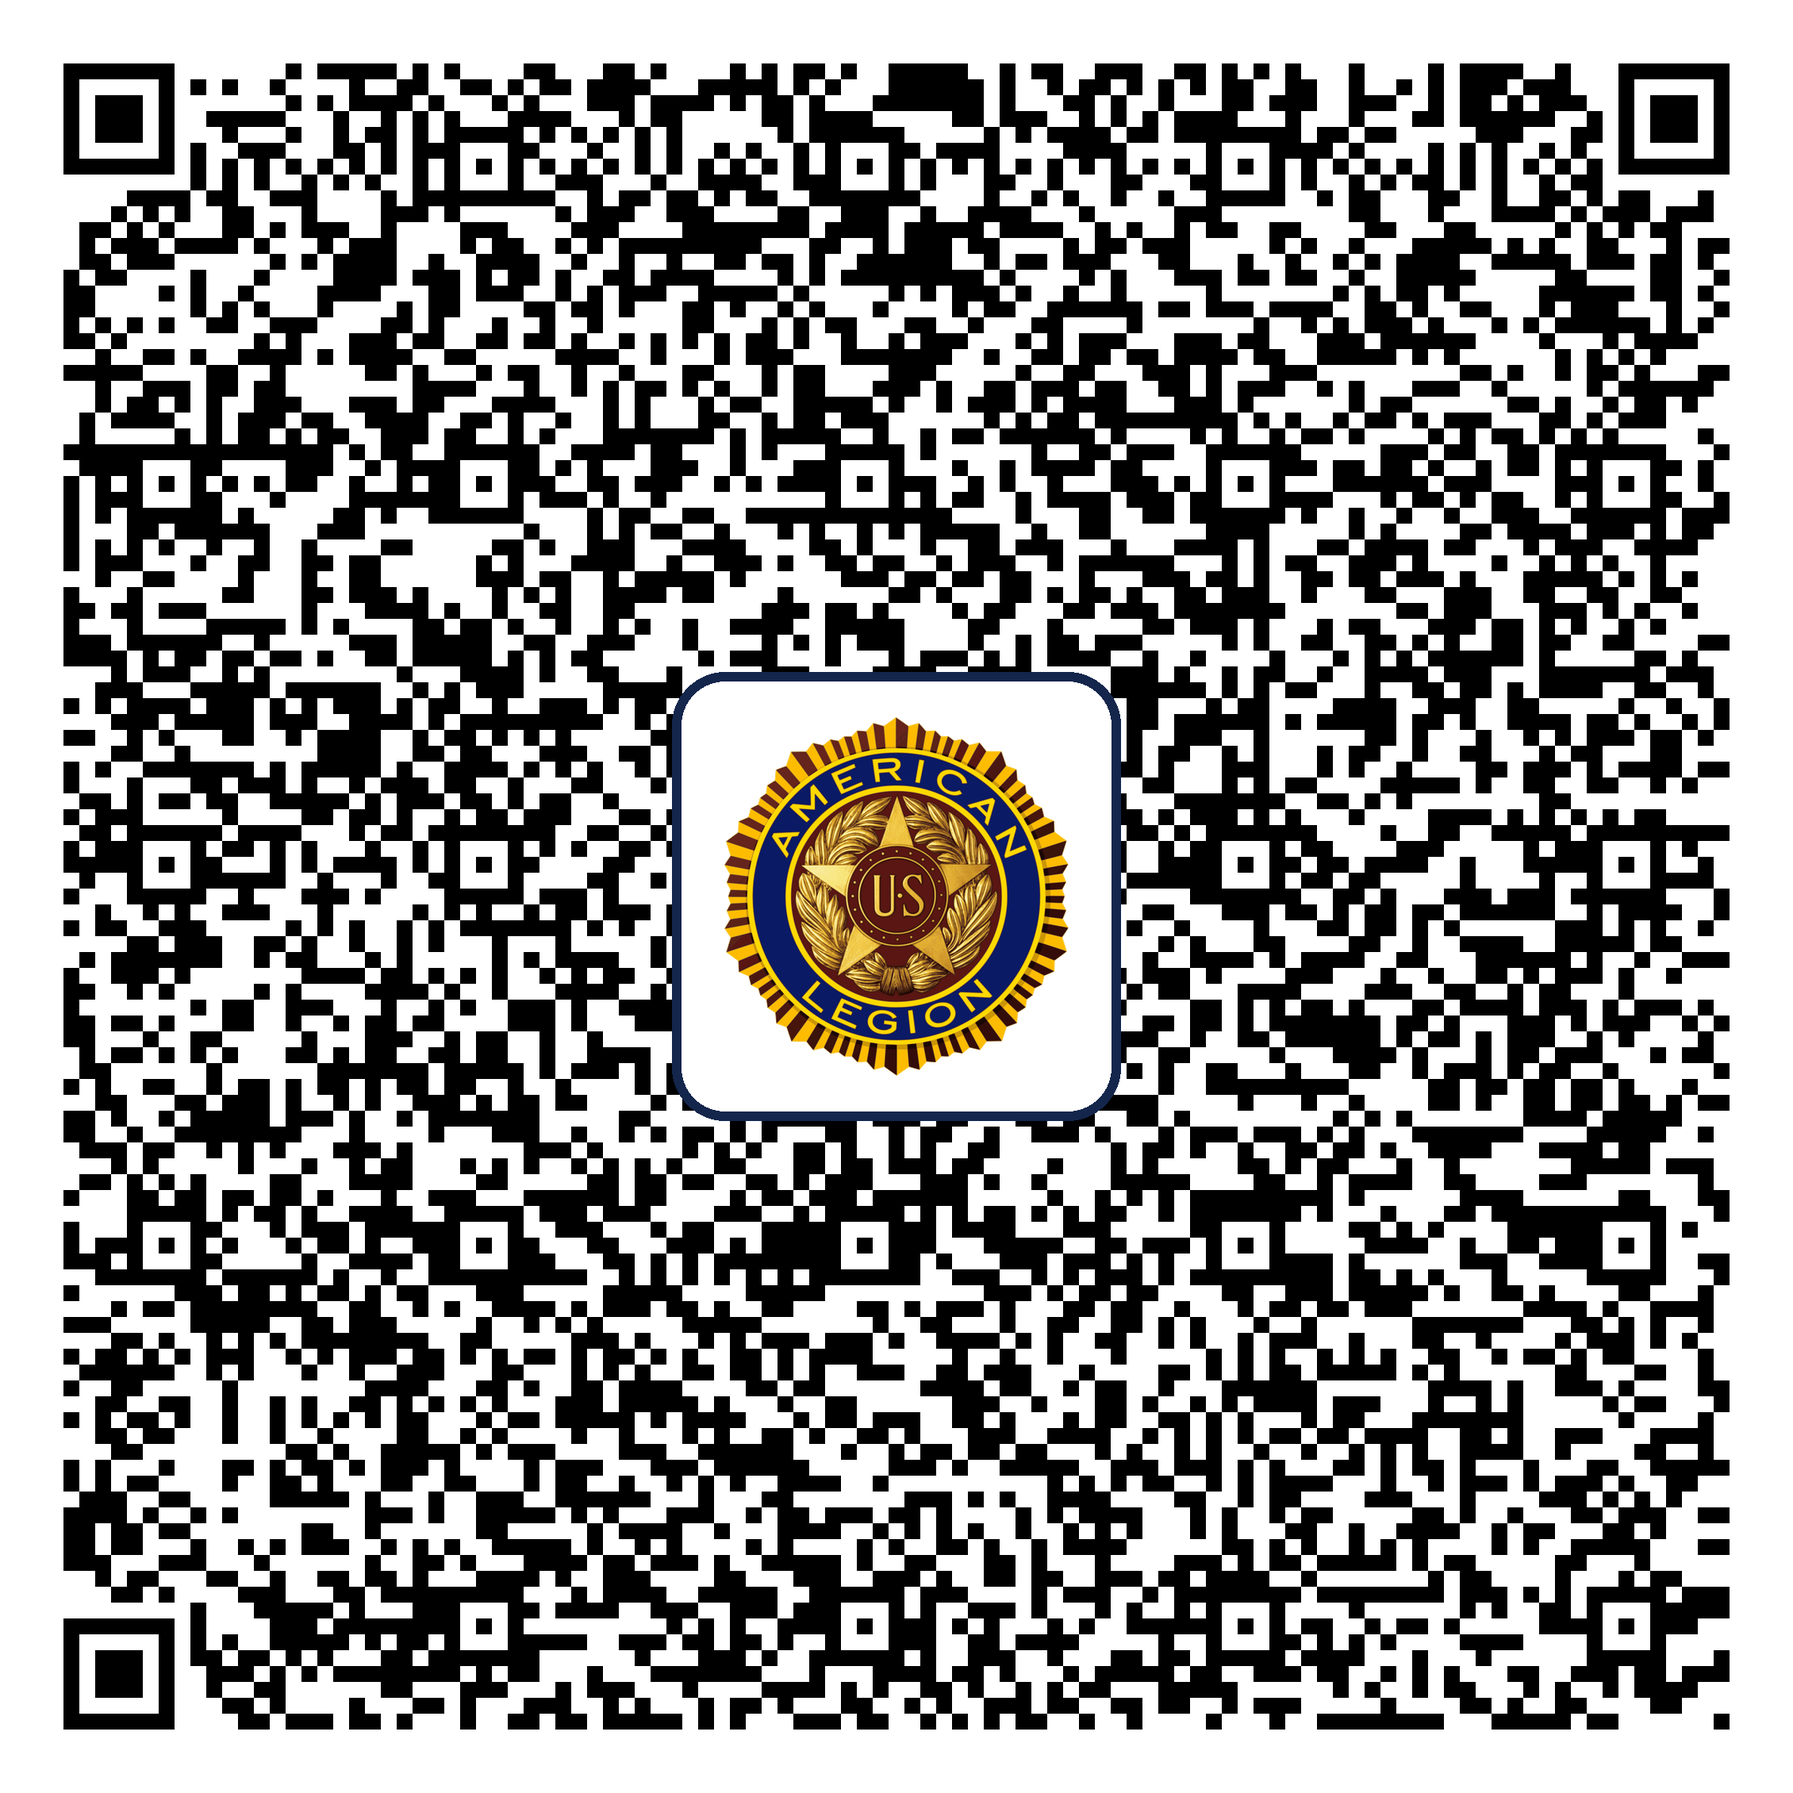
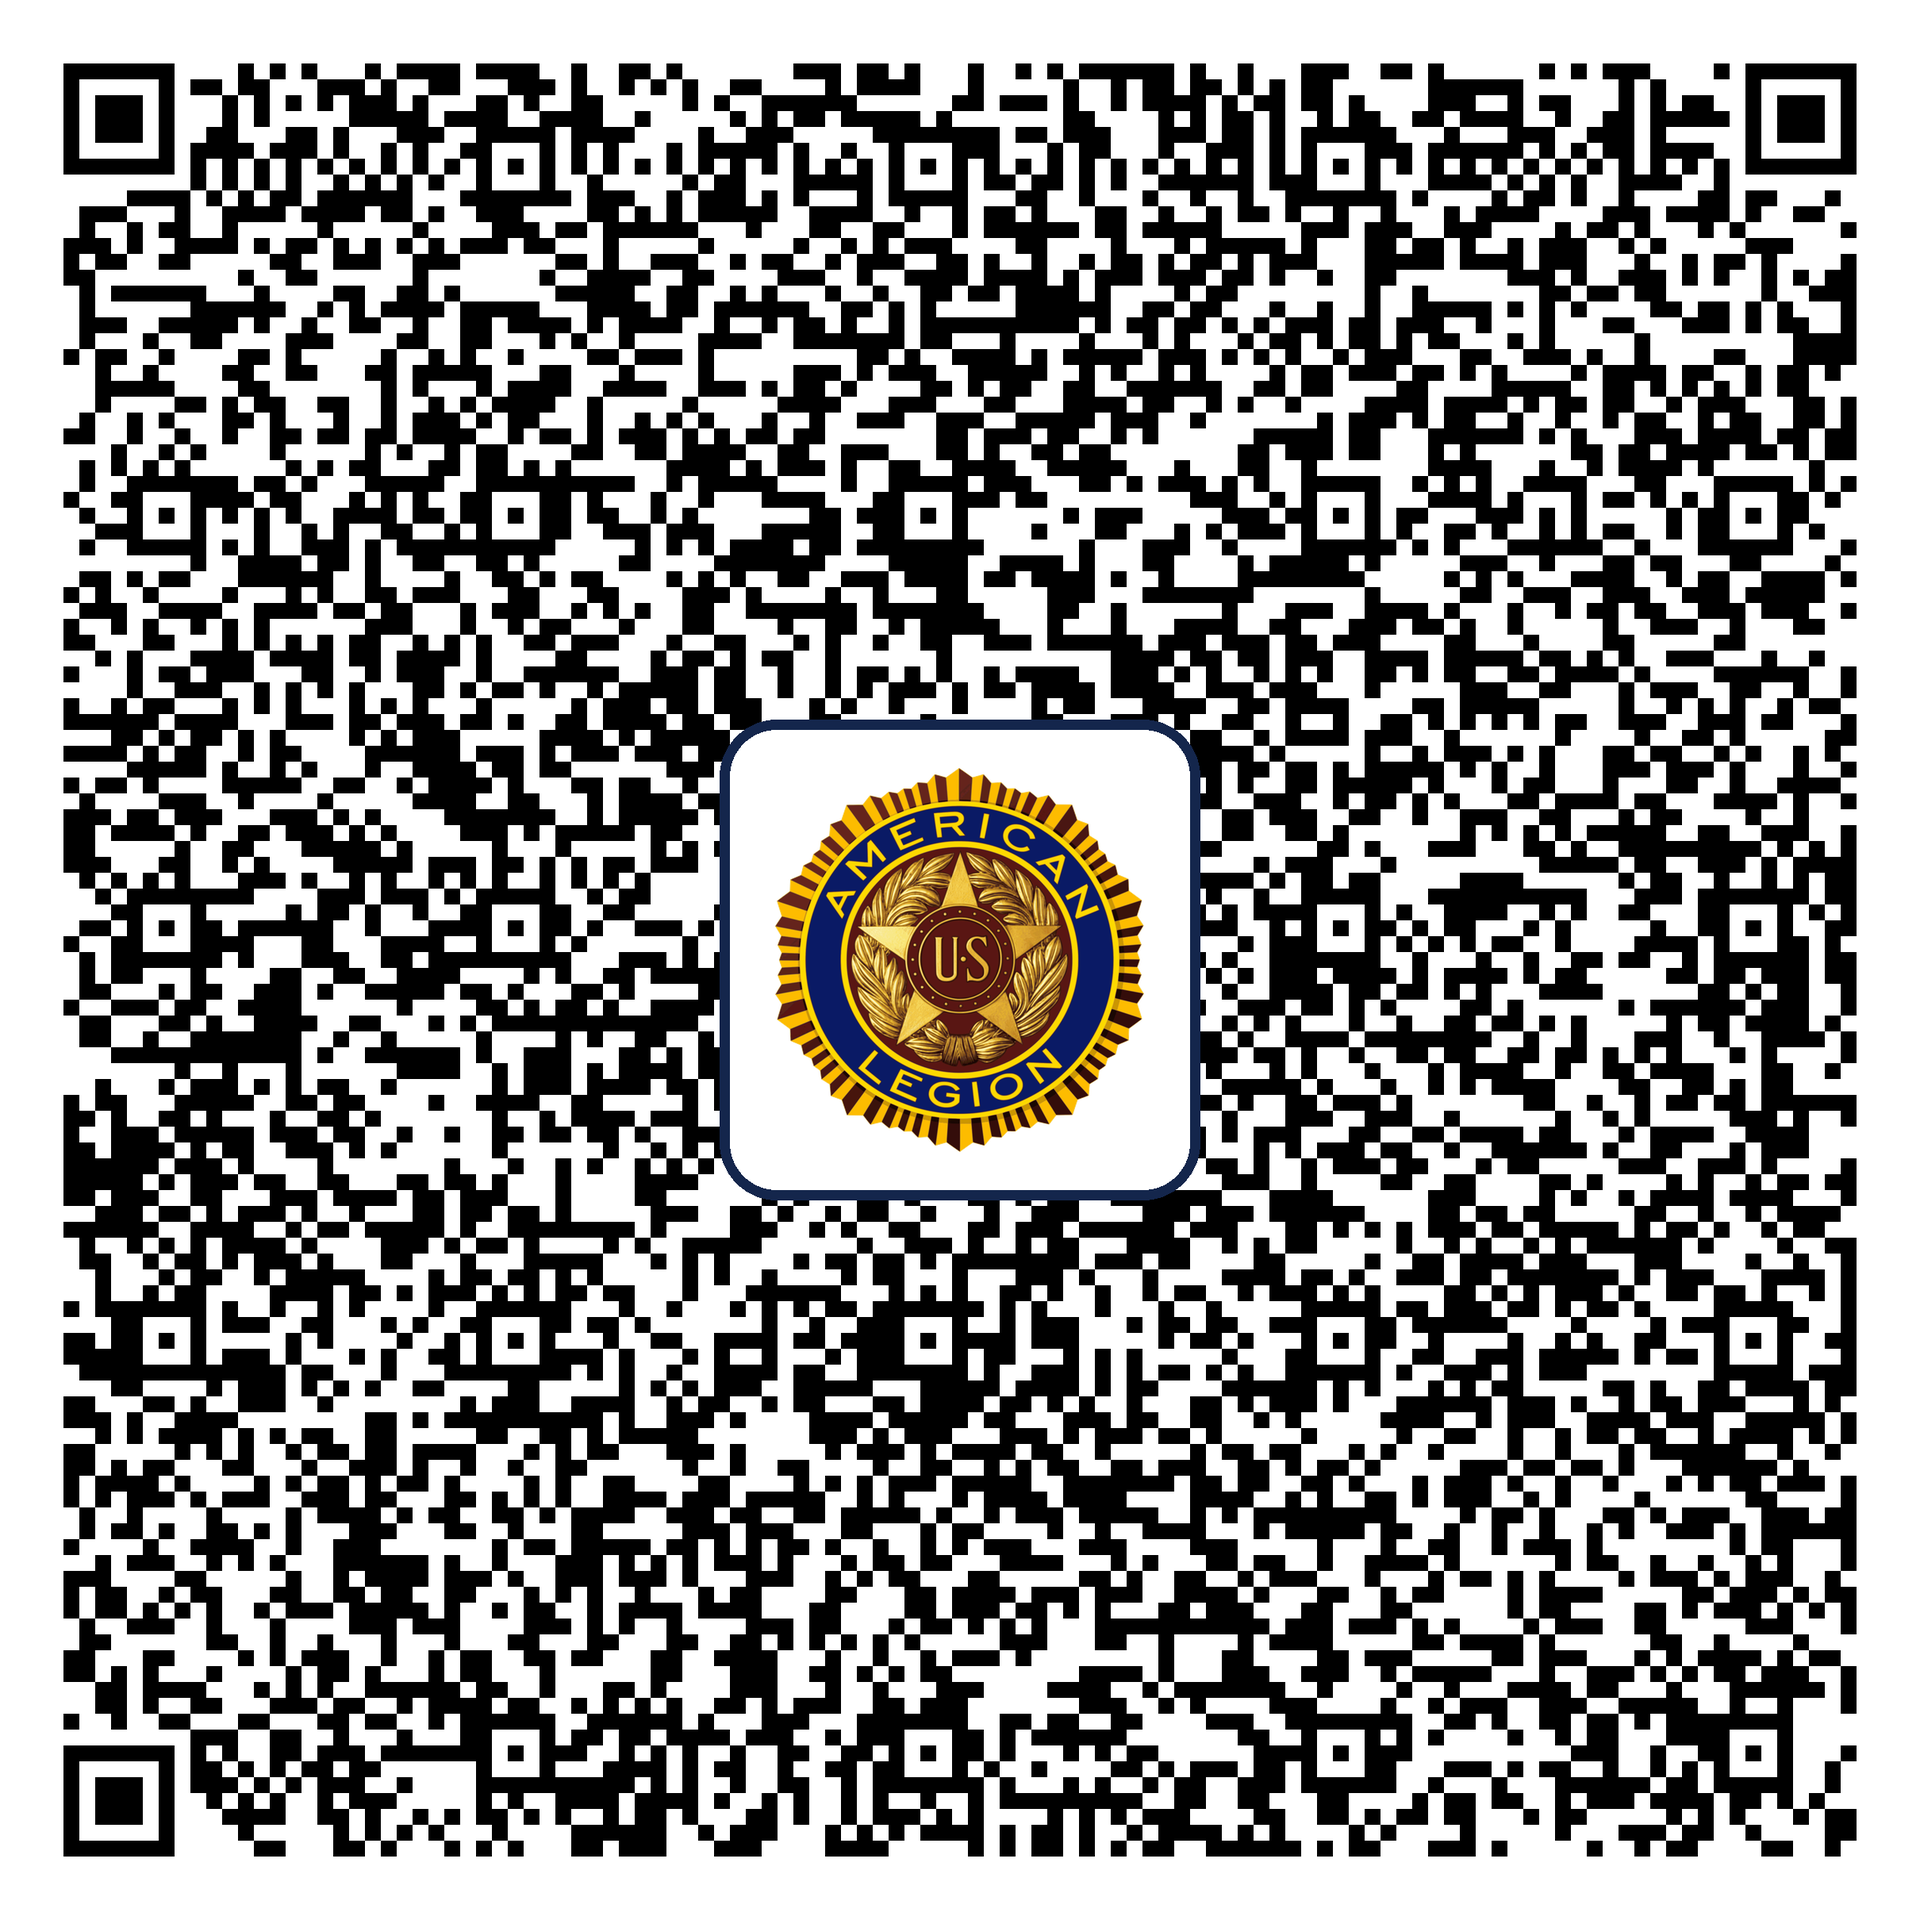
Set Angelo contact homepage to Norwalk Legion Post 359 Family Facebook
Replace hosting-URL homepage (already removed) with the official Post 359
Facebook page https://www.facebook.com/NorwalkAmericanLegionPost359Family/
as listed on mylegion.org Post Detail (Commander Angelo Maldonado,
11986 Front St, 562-474-1977). Rebuild QR Level H with Legion emblem
center, decode-tested. Bump SW cache to v4.

diff --git a/angelo-app/sw.js b/angelo-app/sw.js
@@ -1,4 +1,4 @@
-const CACHE = "angelo-legion359-v3";
+const CACHE = "angelo-legion359-v4";
 const ASSETS = [
   "./",
   "./index.html",

diff --git a/angelo-app/README.md b/angelo-app/README.md
@@ -17,3 +17,5 @@ License note on Commons: public domain, consists only of simple geometric shapes
 The QR was built at error correction Level H. The white padded center box is 25 percent of the QR width and the emblem itself is about 19 to 20 percent, so scanners can still read the code. Verified locally with zxingcpp and with OpenCV QRCodeDetectorAruco, both decoded the full vCard.
 
 Note: this is American Legion Post 359, not VFW Post 7243. No USMC Eagle, Globe and Anchor is used.
+
+Homepage in the saved contact: https://www.facebook.com/NorwalkAmericanLegionPost359Family/ (Norwalk American Legion Post 359 Family Facebook page, as listed on mylegion.org Post Detail for Post 359). It is the vCard URL field, so iPhone shows it as 'homepage'.
